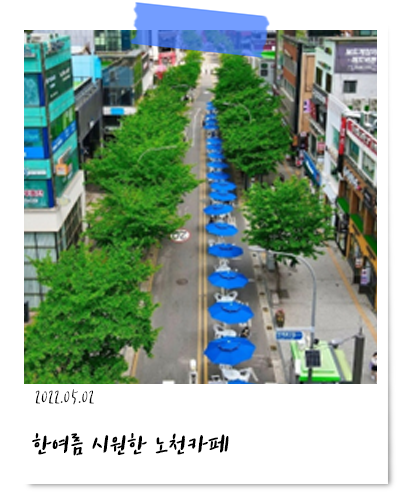
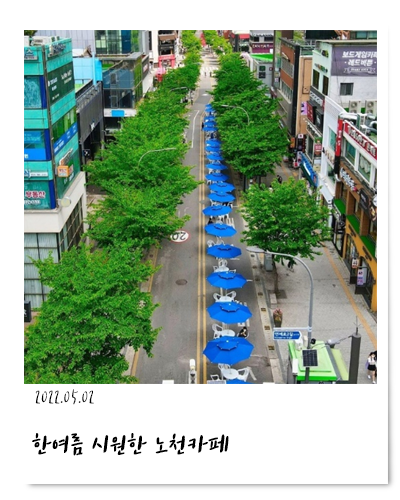
거리 사진 교체

Changed region(s): [[0.06, 0.0, 0.96, 0.78], [0.33, 0.6, 0.36, 0.63]]

diff --git a/book.css b/book.css
@@ -151,11 +151,15 @@
     --font-size-vsm: 16px;
     --font-size-vvsm: 14px;
 
-    --max-width: 190px;
+    --max-width: 195px;
     --max-icon: 90px;
   }
 }
-
+@media (min-width: 1700px) {
+  :root {
+    --max-width: 210px;
+  }
+}
 @media (min-width: 1770px) {
   :root {
     --font-size-tlg: 75px;
@@ -167,7 +171,7 @@
     --font-size-vsm: 18px;
     --font-size-vvsm: 16px;
 
-    --max-width: 210px;
+    --max-width: 220px;
     --max-icon: 100px;
   }
 }
